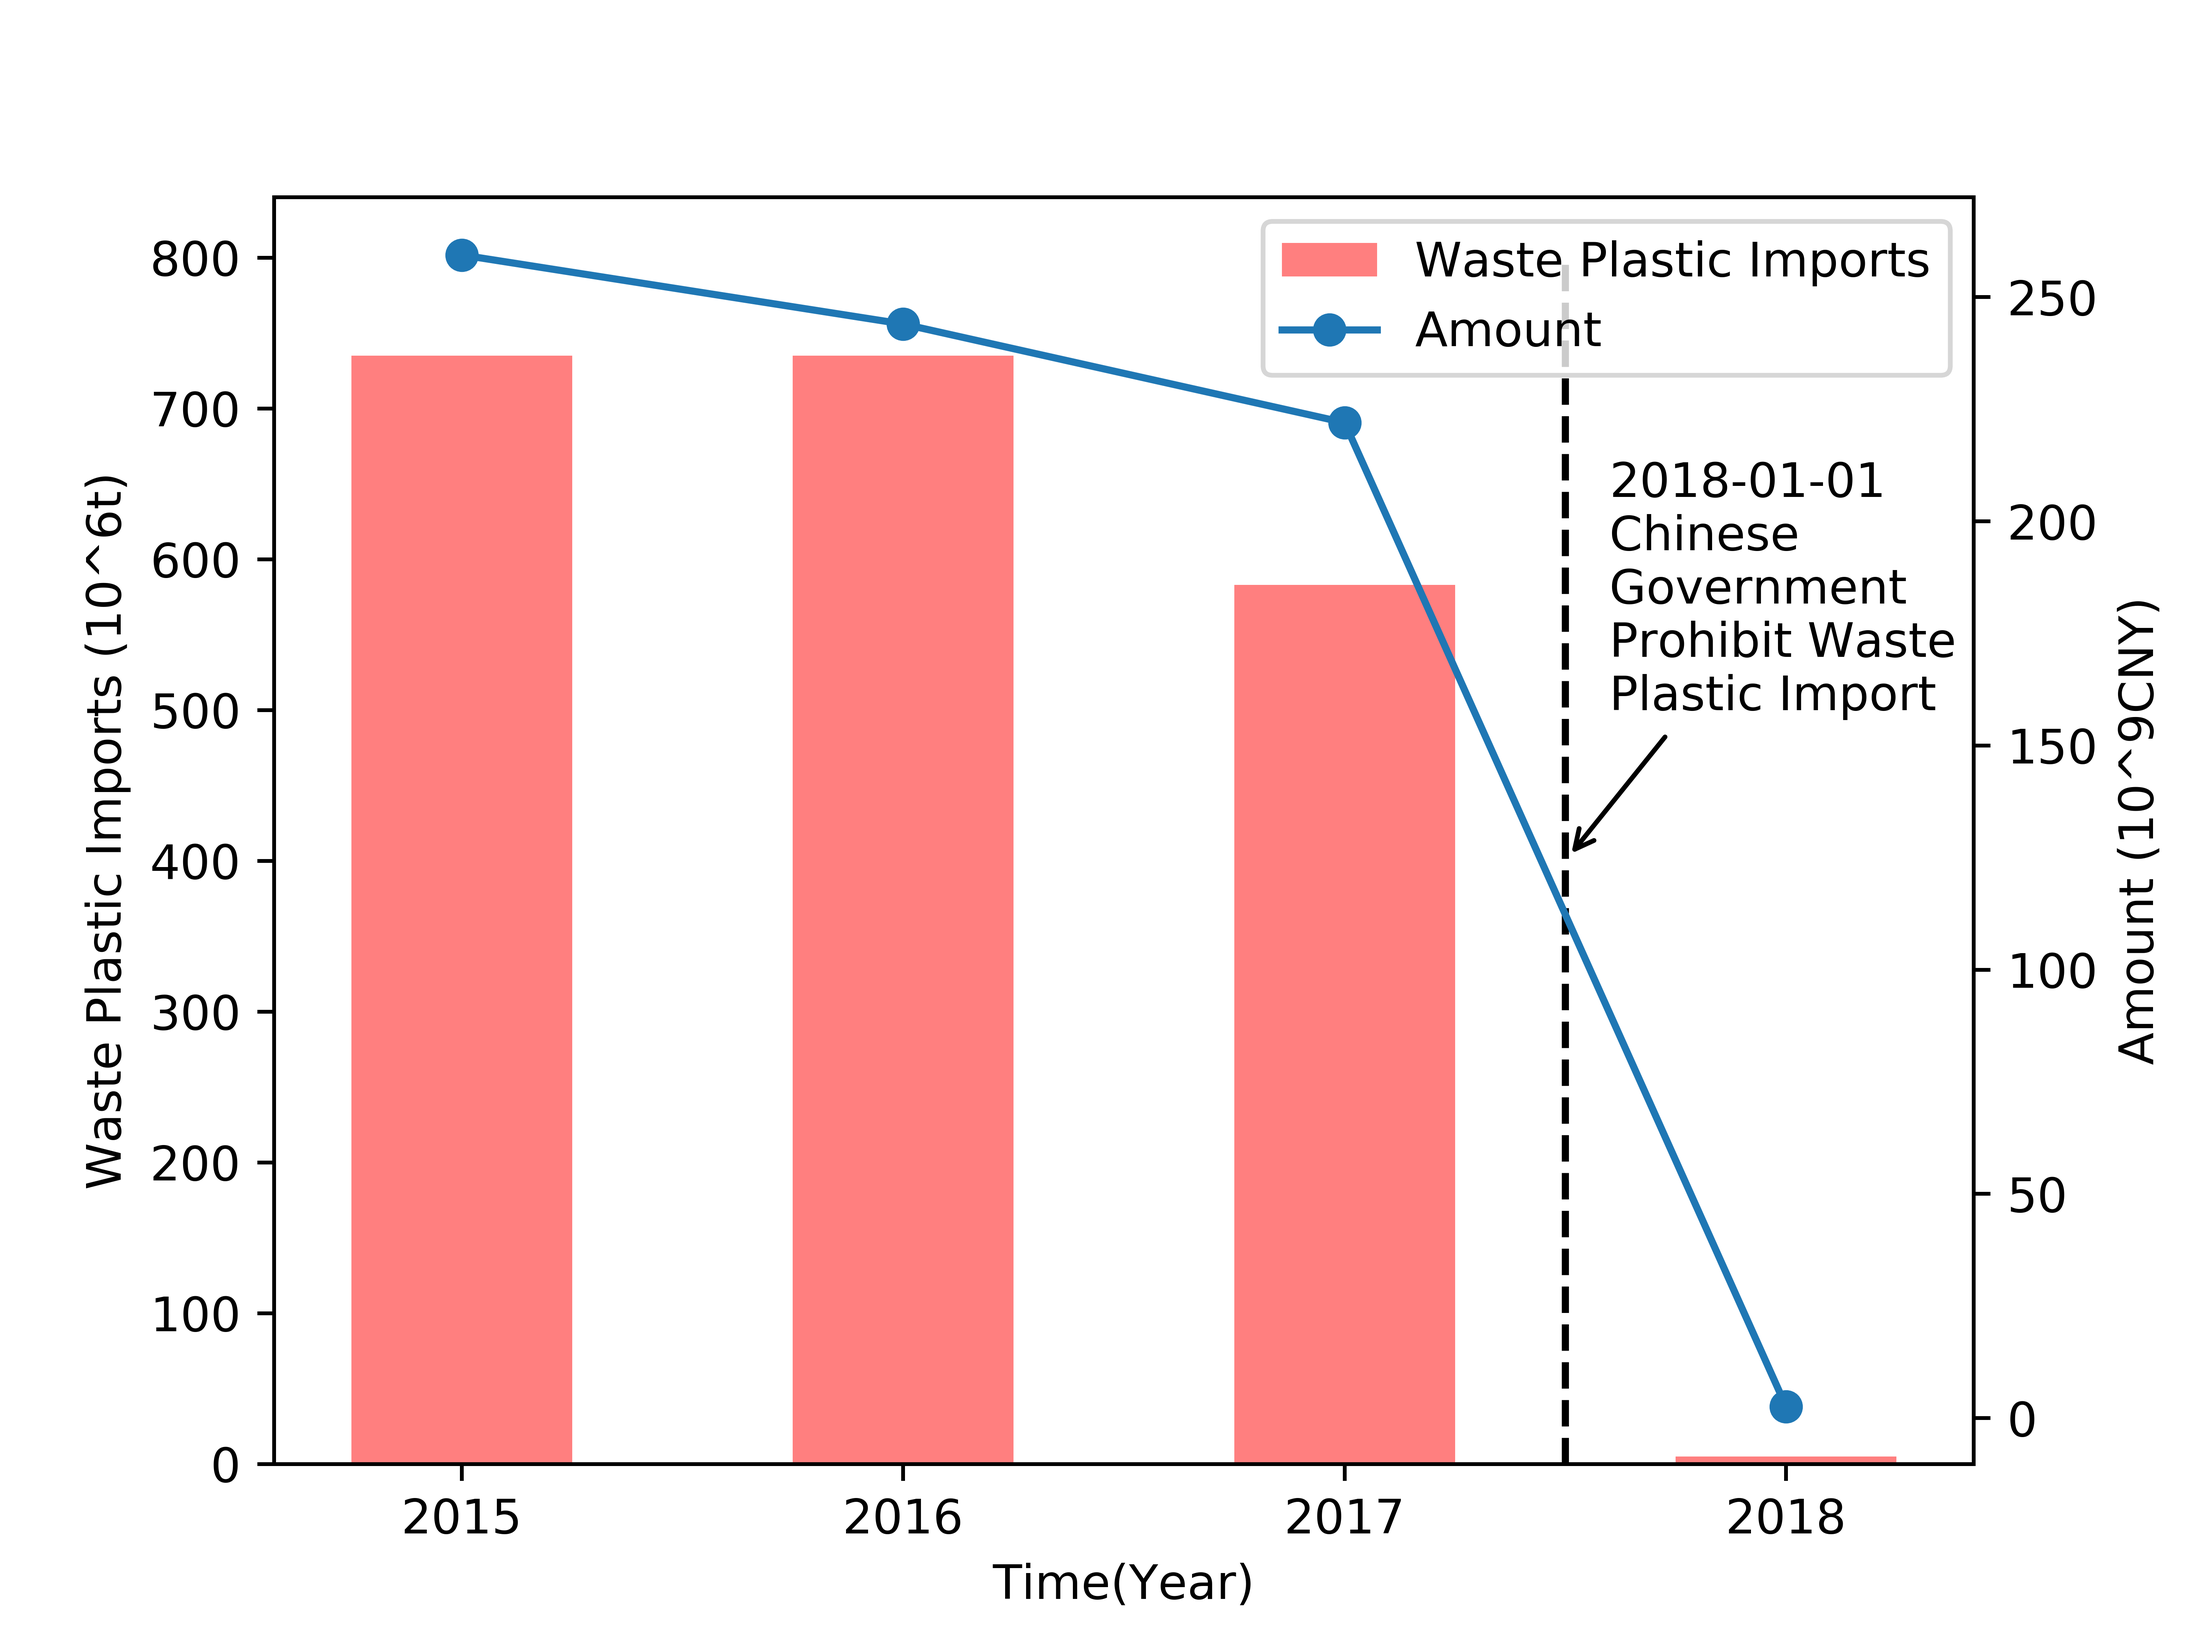
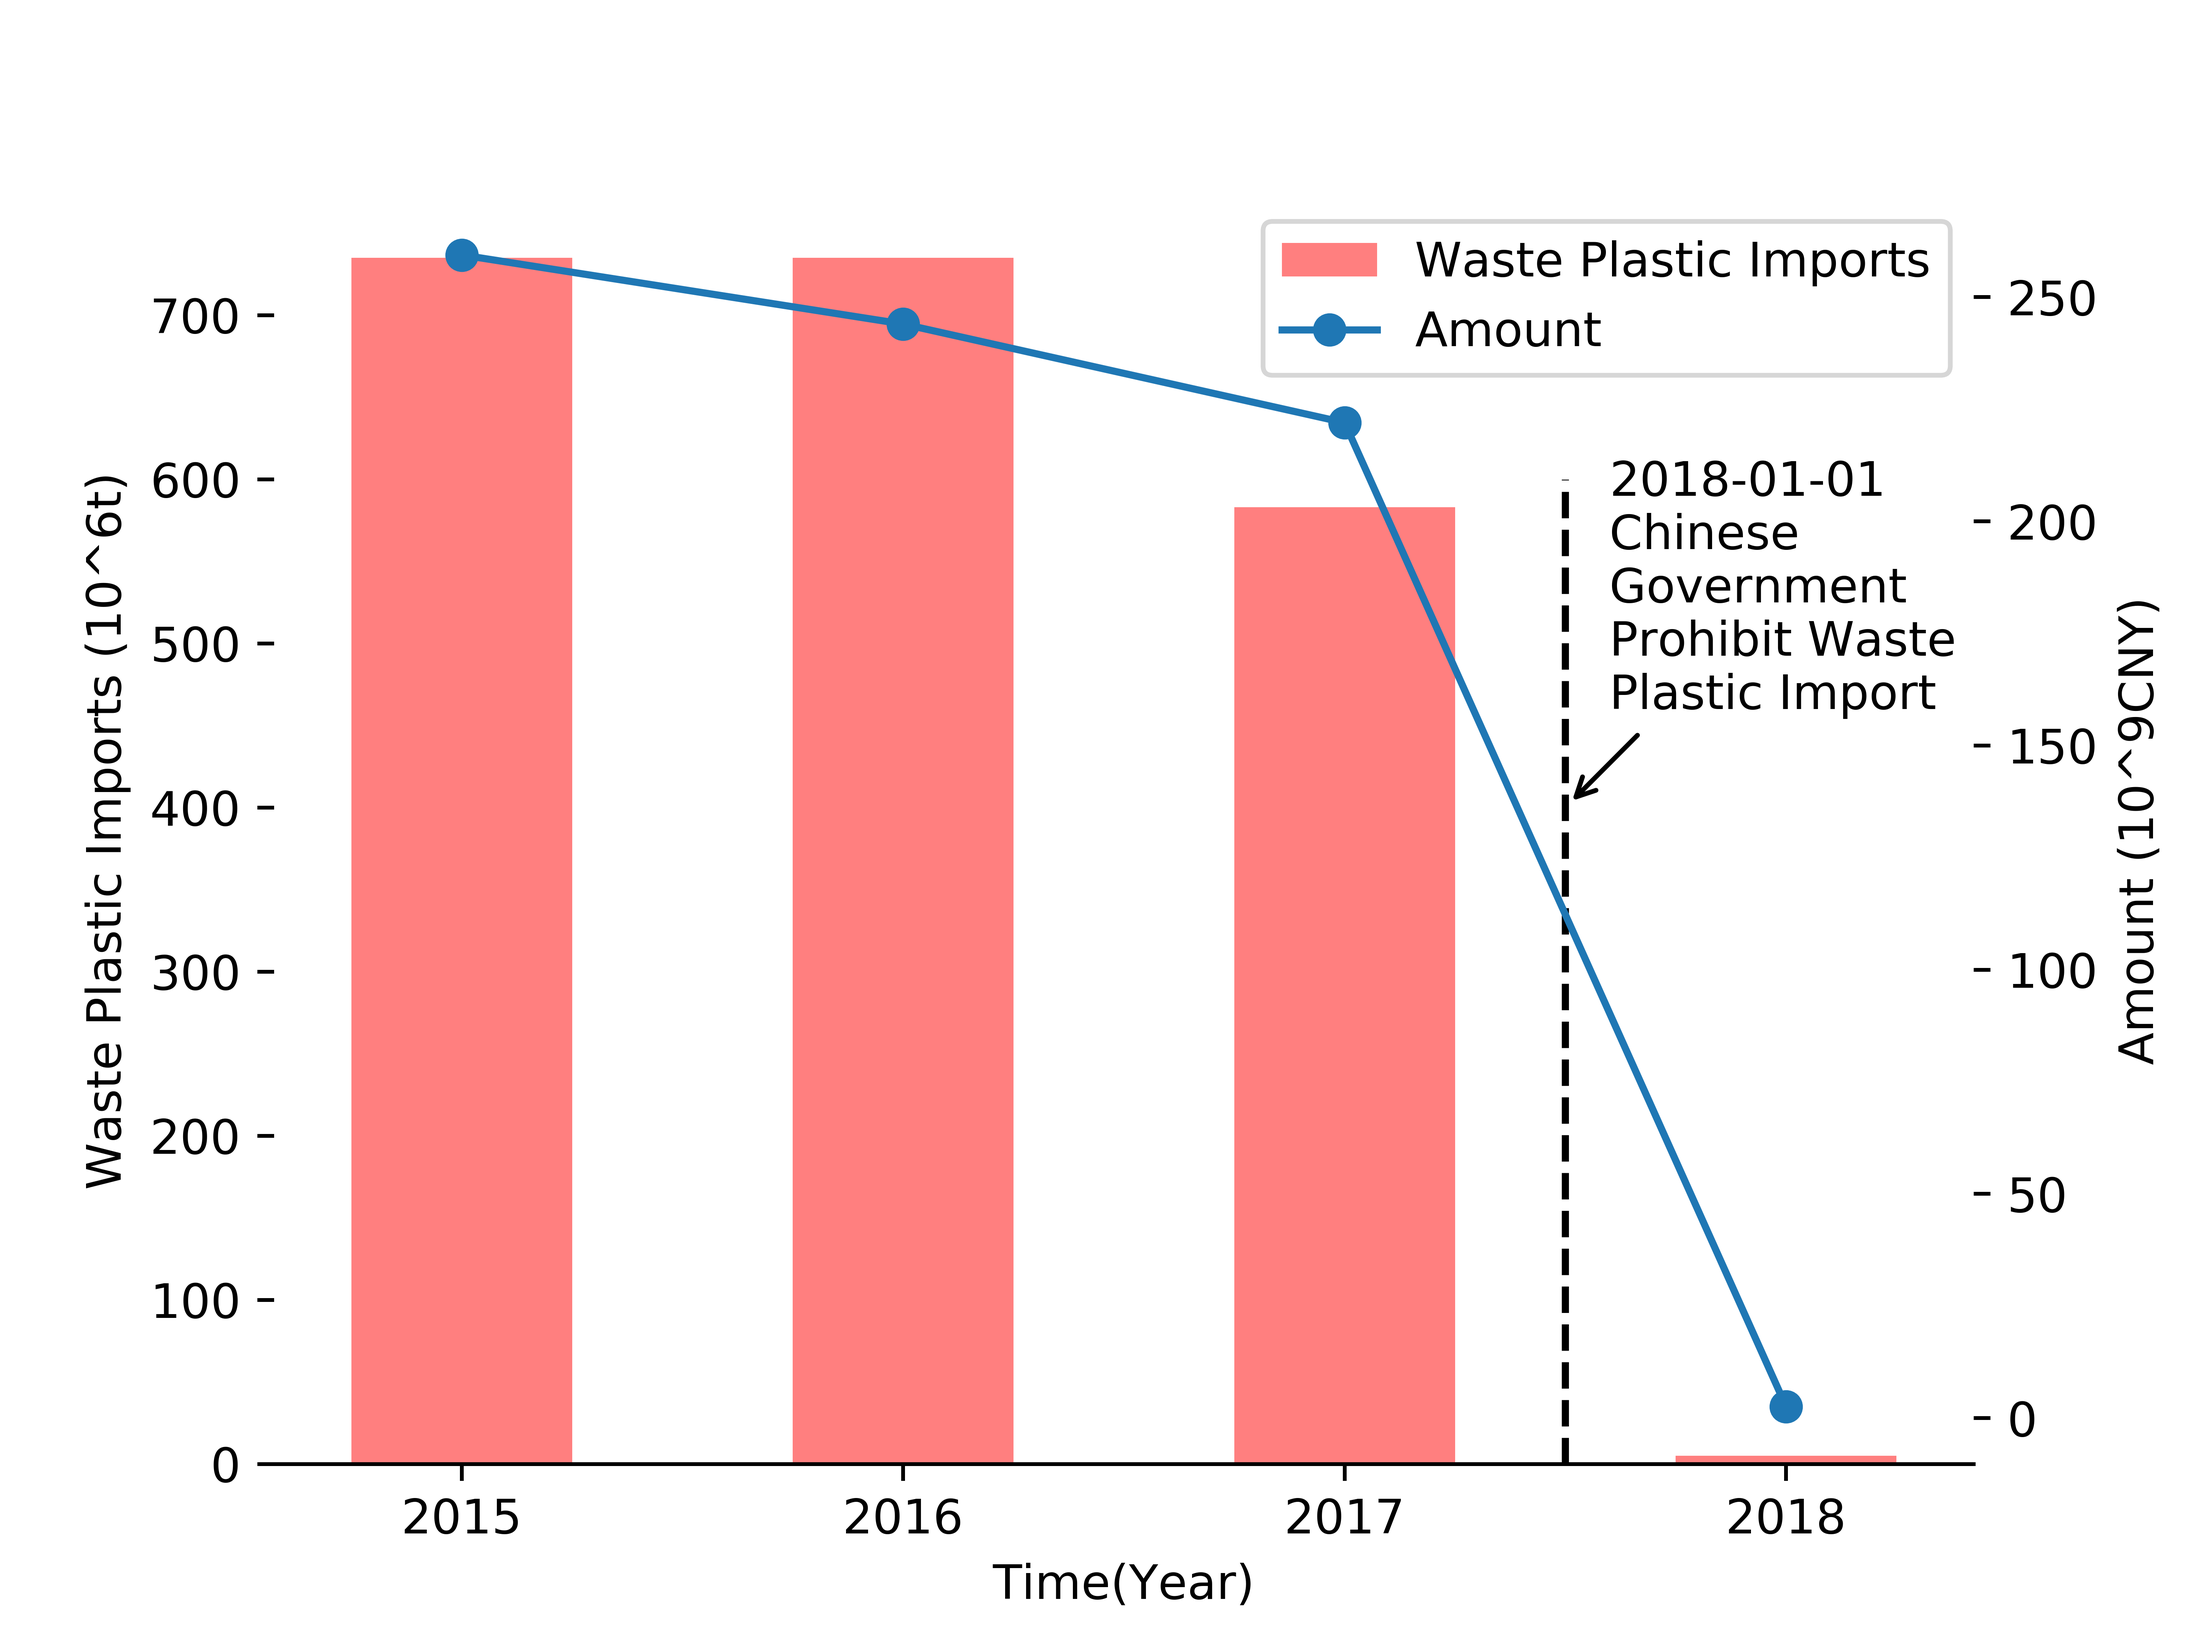
add code annotation

diff --git a/code/Region_Estimation.py b/code/Region_Estimation.py
@@ -6,57 +6,50 @@ W = np.array([
     [0, 0, 0, 0, 10, 0, 0],
     [5, -1, 0, 0, 0, 3, 0],
     [5, 0, 0, 0, 0, 0, 3]
-])  # 收入 人口 替代, P_Y,P_i,P_c,P_p
+])  # the matrix W
 
-
+# Read from excel file
 df = pd.read_excel("data/data for AHP.xlsx",
                    sheet_name="Input", index_col="Region")
 data = df.values
 
+# get result
 result = pd.DataFrame((W @ data.T).T, index=df.index,
                       columns=["Y", "Y_Import", "r_c", "r_p"])
 
-
+# write result to excel file
 nan_excel = pd.DataFrame()
 nan_excel.to_excel("result\Region_Estimaiton_Result.xlsx")
 writer = pd.ExcelWriter("result\Region_Estimaiton_Result.xlsx")
 result.to_excel(writer, sheet_name="pre")
-result = result.apply(lambda x: ((x-np.mean(x))/np.std(x)))
-# print(result)
+result = result.apply(lambda x: ((x-np.mean(x))/np.std(x))) # standardize output
 result.to_excel(writer, sheet_name="standard")
 writer.save()
+
+# draw
 result = result.T
-print(result)
-
-
 index = np.arange(4)
 error_config = {'ecolor': '0.3'}
 bar_width = 0.25
 fig, ax = plt.subplots()
 
-rect0 = ax.bar(index - bar_width, result["China"], bar_width, alpha=0.5,
-               color='r', label="China")
-
-rect1 = ax.bar(index, result["EU"], bar_width,
-               alpha=0.5, color='y', label="EU")
-
-rect2 = ax.bar(index + bar_width, result["India"], bar_width, alpha=0.5, color='b',
-               label="India")
-
-# rect3 = ax.bar(index + bar_width, result["r_p"], bar_width, alpha=0.5, color='g',
-#           yerr=0.1 * result["r_p"].std(), error_kw=error_config, label="r_p")
-
+rect0 = ax.bar(index - bar_width, result["China"], bar_width, 
+                color='#FFFF99', label="China")
+rect1 = ax.bar(index, result["EU"], bar_width, color='#FFCC99', label="EU")
+rect2 = ax.bar(index + bar_width, result["India"], bar_width,  
+                color='#FF9999',label="India")
+# add axis
 ax.hlines(0, -0.5, 4, colors='k', linestyles="dashed")
-
+# add xticks
 for i in range(4):
-    if i>=2:
-        plt.text(i - 0.1, -0.15, result.index[i])
+    if i==0:
+        plt.text(i - 0.07, -0.15, result.index[i])
     elif i==1:
         plt.text(i - 0.3, -0.15, result.index[i])
     else:
-        plt.text(i - 0.07, -0.15, result.index[i])
+        plt.text(i - 0.1, -0.15, result.index[i])
+ax.set_xticks([])
 
 ax.legend(loc="best")
-ax.set_xticks([])
 plt.savefig("figure\Region_Estimation.png", dpi=900)
 plt.show()

diff --git a/code/china_plastic_import.py b/code/china_plastic_import.py
@@ -2,25 +2,48 @@ import pandas as pd
 import numpy as np
 import matplotlib.pyplot as plt
 
-df = pd.DataFrame([[735, 259.4], [735, 244], [583, 222], [5, 2.6]], index=[2015,2016,2017,2018], columns=["Waste Plastic Imports", "Amount"])
+# load data
+df = pd.DataFrame(
+    [[735, 259.4], [735, 244], [583, 222], [5, 2.6]],
+    index=[2015, 2016, 2017, 2018],
+    columns=["Waste Plastic Imports", "Amount"]
+)
+
 
 fig,ax1=plt.subplots()
-ax1.bar(df.index, df["Waste Plastic Imports"],alpha=0.5,width=0.5,color='r', label="Waste Plastic Imports")
+ax1.bar(
+    df.index, df["Waste Plastic Imports"],
+    alpha=0.5, width=0.5, color='r',
+    label="Waste Plastic Imports"
+)
 ax1.set_xlabel("Time(Year)")
 ax1.set_ylabel("Waste Plastic Imports (10^6t)")
+
+# remove the frame
+ax1.spines['top'].set_visible(False)
+ax1.spines['right'].set_visible(False)
+ax1.spines['left'].set_visible(False)
+
 
 ax2 = ax1.twinx()
 ax2.plot(df.index, df["Amount"], 'o-', label="Amount")
 ax2.set_ylabel("Amount (10^9CNY)")
 ax2.set_xticks([2015,2016,2017,2018])
 
-ax1.vlines(2017.5, 0, 800, colors='k', linestyles="dashed")
+# add annotaiton
+ax1.vlines(2017.5, 0, 600, colors='k', linestyles="dashed")
 ax1.annotate("2018-01-01\nChinese \nGovernment\nProhibit Waste\nPlastic Import",
-            xy=(2017.5,400), xytext=(2017.6,500),arrowprops=dict(arrowstyle='->'))
+            xy=(2017.5,400), xytext=(2017.6,460),arrowprops=dict(arrowstyle='->'))
 
+# add legend
 handles1, labels1 = ax1.get_legend_handles_labels()
 handles2, labels2 = ax2.get_legend_handles_labels()
 plt.legend(handles1 + handles2, labels1 + labels2, loc="best")
+
+ax2.spines['top'].set_visible(False)
+ax2.spines['right'].set_visible(False)
+ax2.spines['left'].set_visible(False)
+
 # ax1.set_title("China Waste Plastic Import")
 plt.savefig("figure\Chinese_Plastic_Import.png",dpi=900)
 plt.show()

diff --git a/code/Population_Distribution.py b/code/Population_Distribution.py
@@ -1,13 +1,7 @@
 import matplotlib.pyplot as plt
-
-# 调节图形大小，宽，高
 plt.figure()
-# 定义饼状图的标签，标签是列表
 labels = ['High-Income', 'Middle-Income', 'Low-Income']
-# 每个标签占多大，会自动去算百分比
 sizes = [10.88, 44.2, 8.69]
-#colors = ['red','yellowgreen','lightskyblue']
-# 将某部分爆炸出来， 使用括号，将第一块分割出来，数值的大小是分割出来的与其他两块的间隙
 explode = (0.05, 0.05, 0.05)
 color = ['#FFFF99', '#FFcc99', '#FF9999']
 
@@ -15,20 +9,11 @@ patches, l_text, p_text = plt.pie(sizes, explode=explode, labels=labels,
                                   colors=color, autopct='%3.1f%%', labeldistance=1.1,
                                   shadow=False, startangle=90, pctdistance=0.6)
 
-# labeldistance，文本的位置离远点有多远，1.1指1.1倍半径的位置
-# autopct，圆里面的文本格式，%3.1f%%表示小数有三位，整数有一位的浮点数
-# shadow，饼是否有阴影
-# startangle，起始角度，0，表示从0开始逆时针转，为第一块。一般选择从90度开始比较好看
-# pctdistance，百分比的text离圆心的距离
-# patches, l_texts, p_texts，为了得到饼图的返回值，p_texts饼图内部文本的，l_texts饼图外label的文本
-
-# 改变文本的大小
-# 方法是把每一个text遍历。调用set_size方法设置它的属性
 for t in l_text:
     t.set_size(16)
 for t in p_text:
     t.set_size(18)
-# 设置x，y轴刻度一致，这样饼图才能是圆的
+
 plt.axis('equal')
 plt.axis('equal')
 plt.savefig("figure\Population_Distribution.png",dpi=900)

diff --git a/code/task3.py b/code/task3.py
@@ -3,33 +3,26 @@ import numpy as np
 import matplotlib.pyplot as plt
 
 # define time, constants and initial statess
-N1 = 4977
-P_env = 500
-E = [115,130,98,95]
+N1 = 4977 #initial N
+P_env = 500 # initial P_env
+E = [115,130,98,95]# E
 alpha = 0.13 # N1:amount of waste
 lamda = 0.15
-r = 1000
+r = 1000 
 beta=3e-4
 t_range = np.arange(0,50)
 INPUT = []
-for i in range(4):
+for i in range(4):# for each E, create input series
     INPUT.append([N1, P_env, E[i]])  
-
-
-def max(a, b):
-    if a > b:
-        return b
-    else:
-        return a
 
 
 def diff_eqs(INP,t):
     y = np.zeros(3)
     v = INP
     y[0] = v[2] - alpha * v[1]
-    K=lamda*v[0]-np.exp(beta*v[0])
+    K = lamda * v[0] - np.exp(beta * v[0])
     y[1] = r * v[1] * (1 - v[1] / K)
-    y[2]=0
+    y[2] = 0
     return y
 
 # Ploting
@@ -37,7 +30,7 @@ def draw(ans):
     plt.plot(ans[:, 0], '-r', label="Amount of Waste")
     plt.plot(ans[:, 1], '-g', label="Amount of microbe")
     
-
+# run and draw (for each different E)
 RES = spi.odeint(diff_eqs, INPUT[0], t_range)
 plt.plot(RES[:, 0], '-r', label="E=" + str(E[0])+"(now)")
 RES = spi.odeint(diff_eqs, INPUT[1], t_range)

diff --git a/code/Process_Distribution.py b/code/Process_Distribution.py
@@ -7,8 +7,6 @@ results = {
     "Middle-Income":[.48, .28, .24],
     "Low-Income":[.14, .2, .66]
 }
-
-
 def survey(results, category_names):
     labels = list(results.keys())
     data = np.array(list(results.values()))
